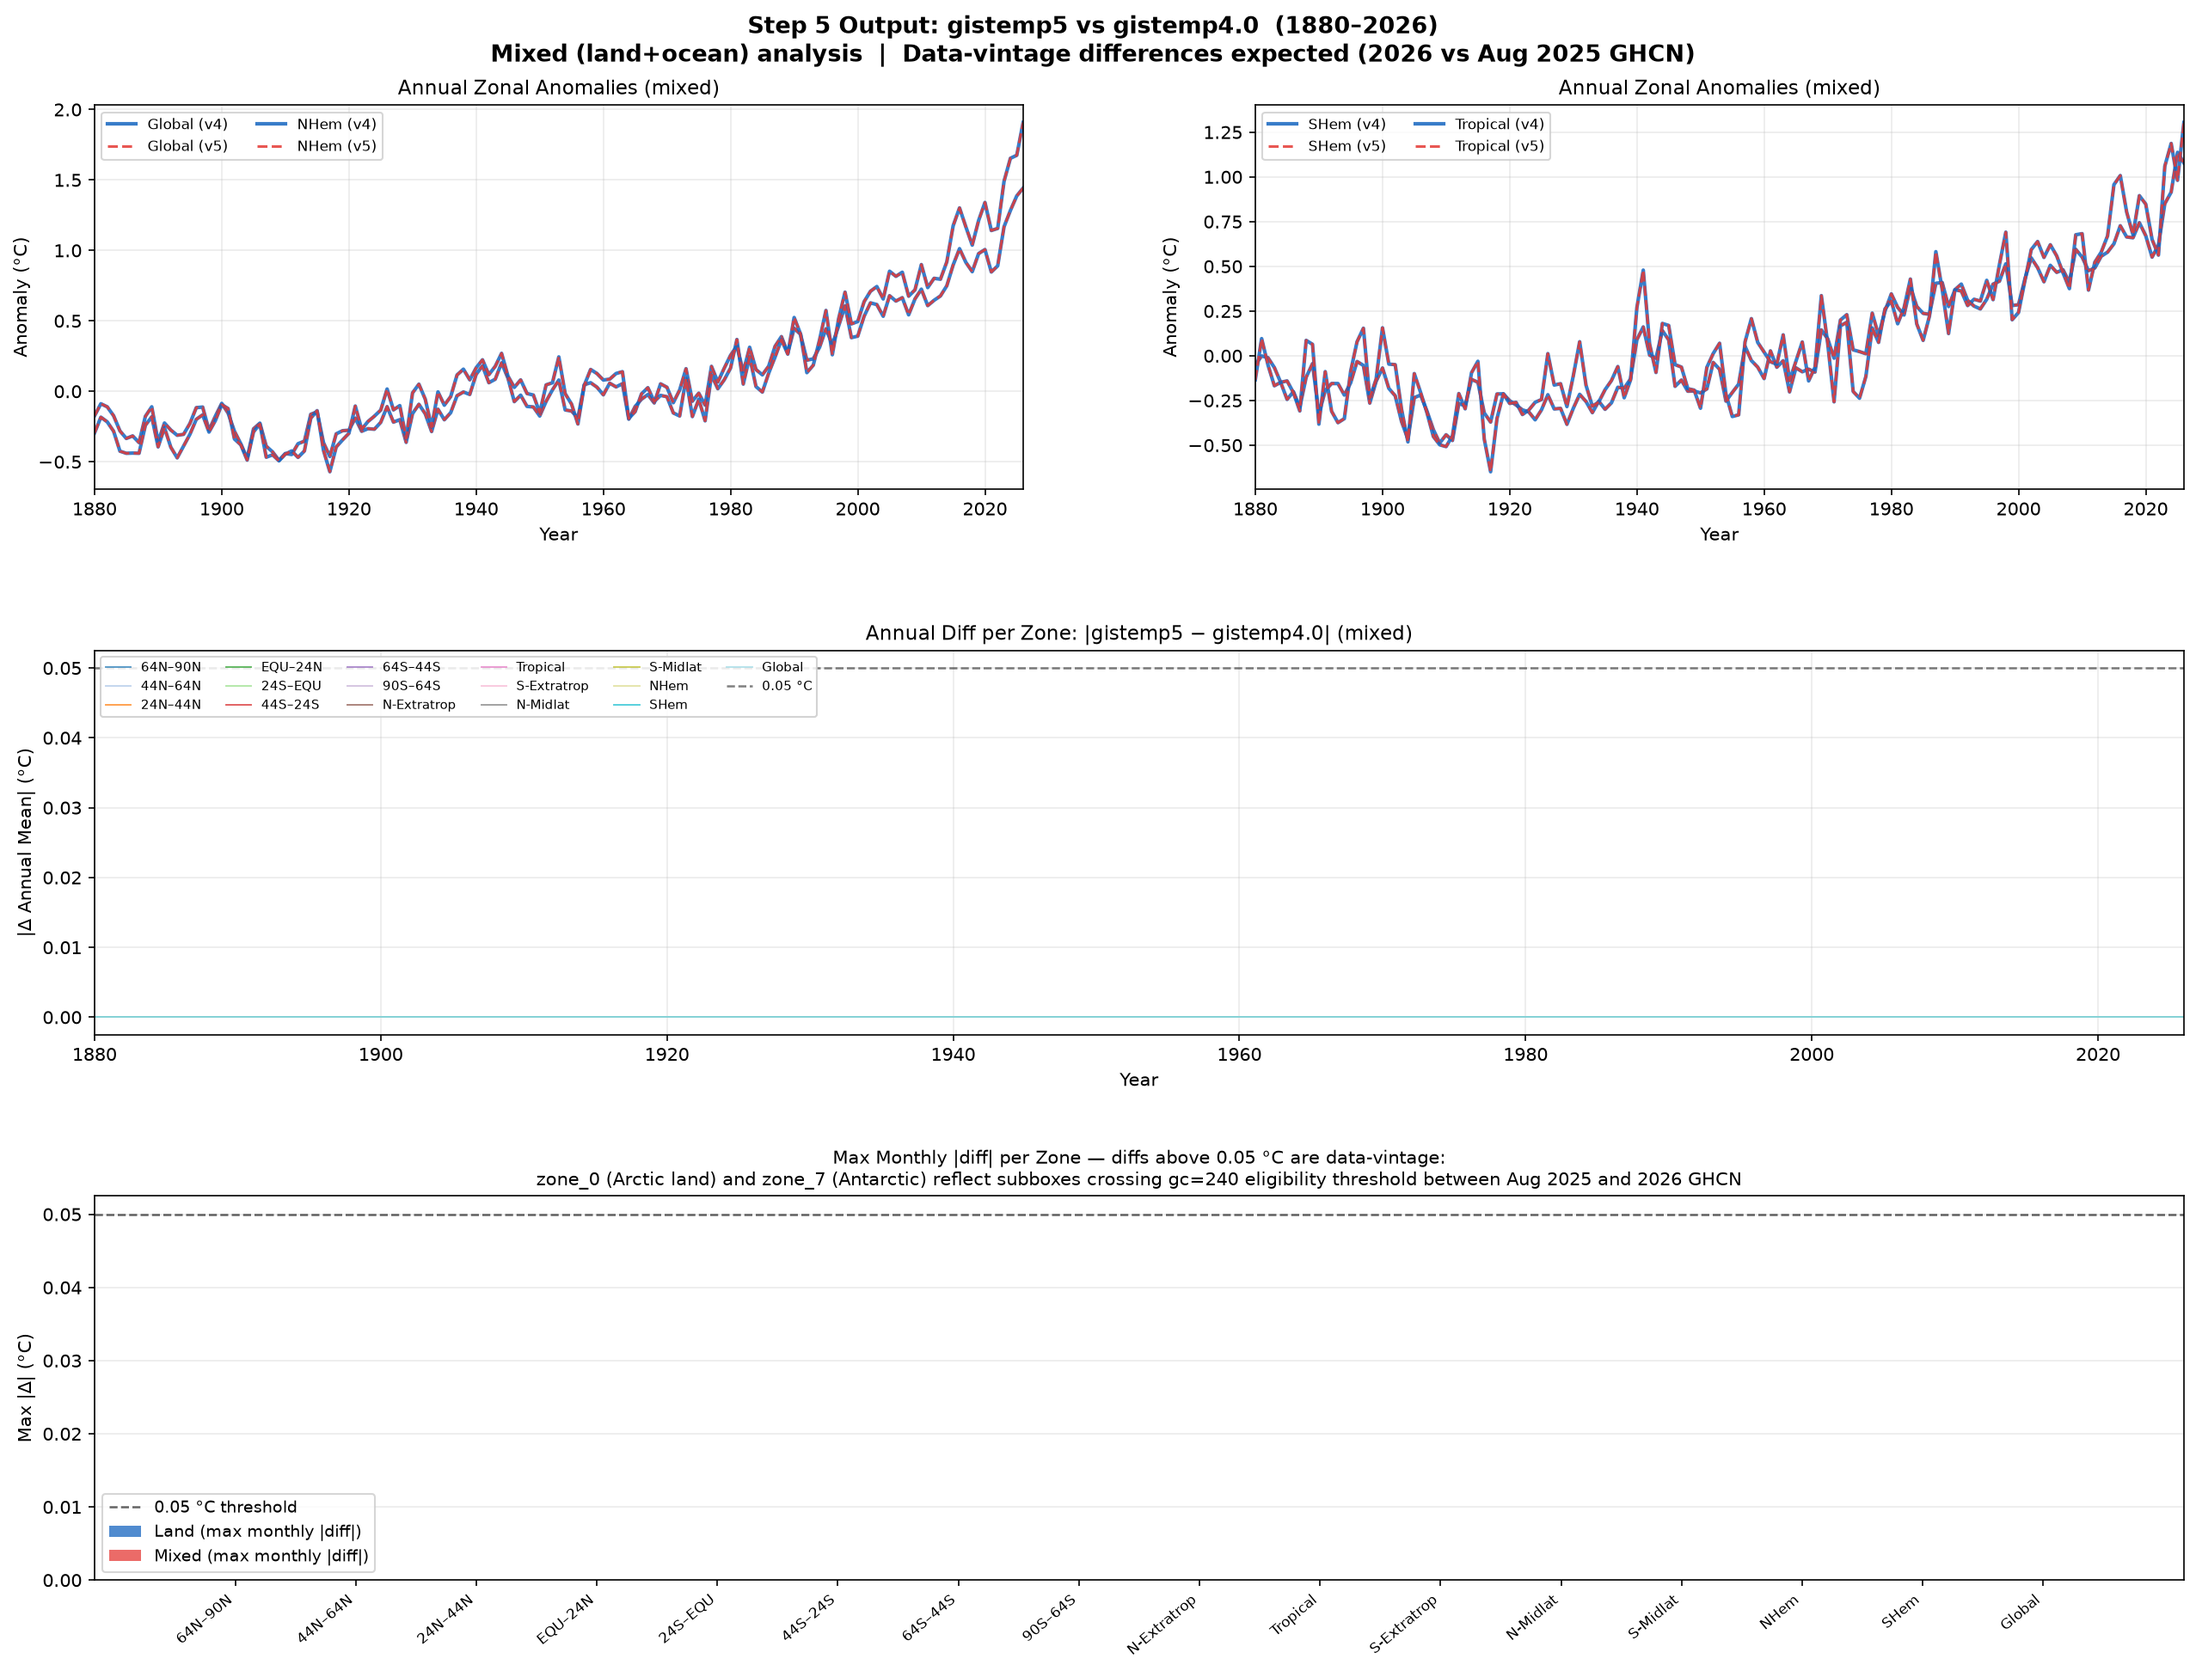
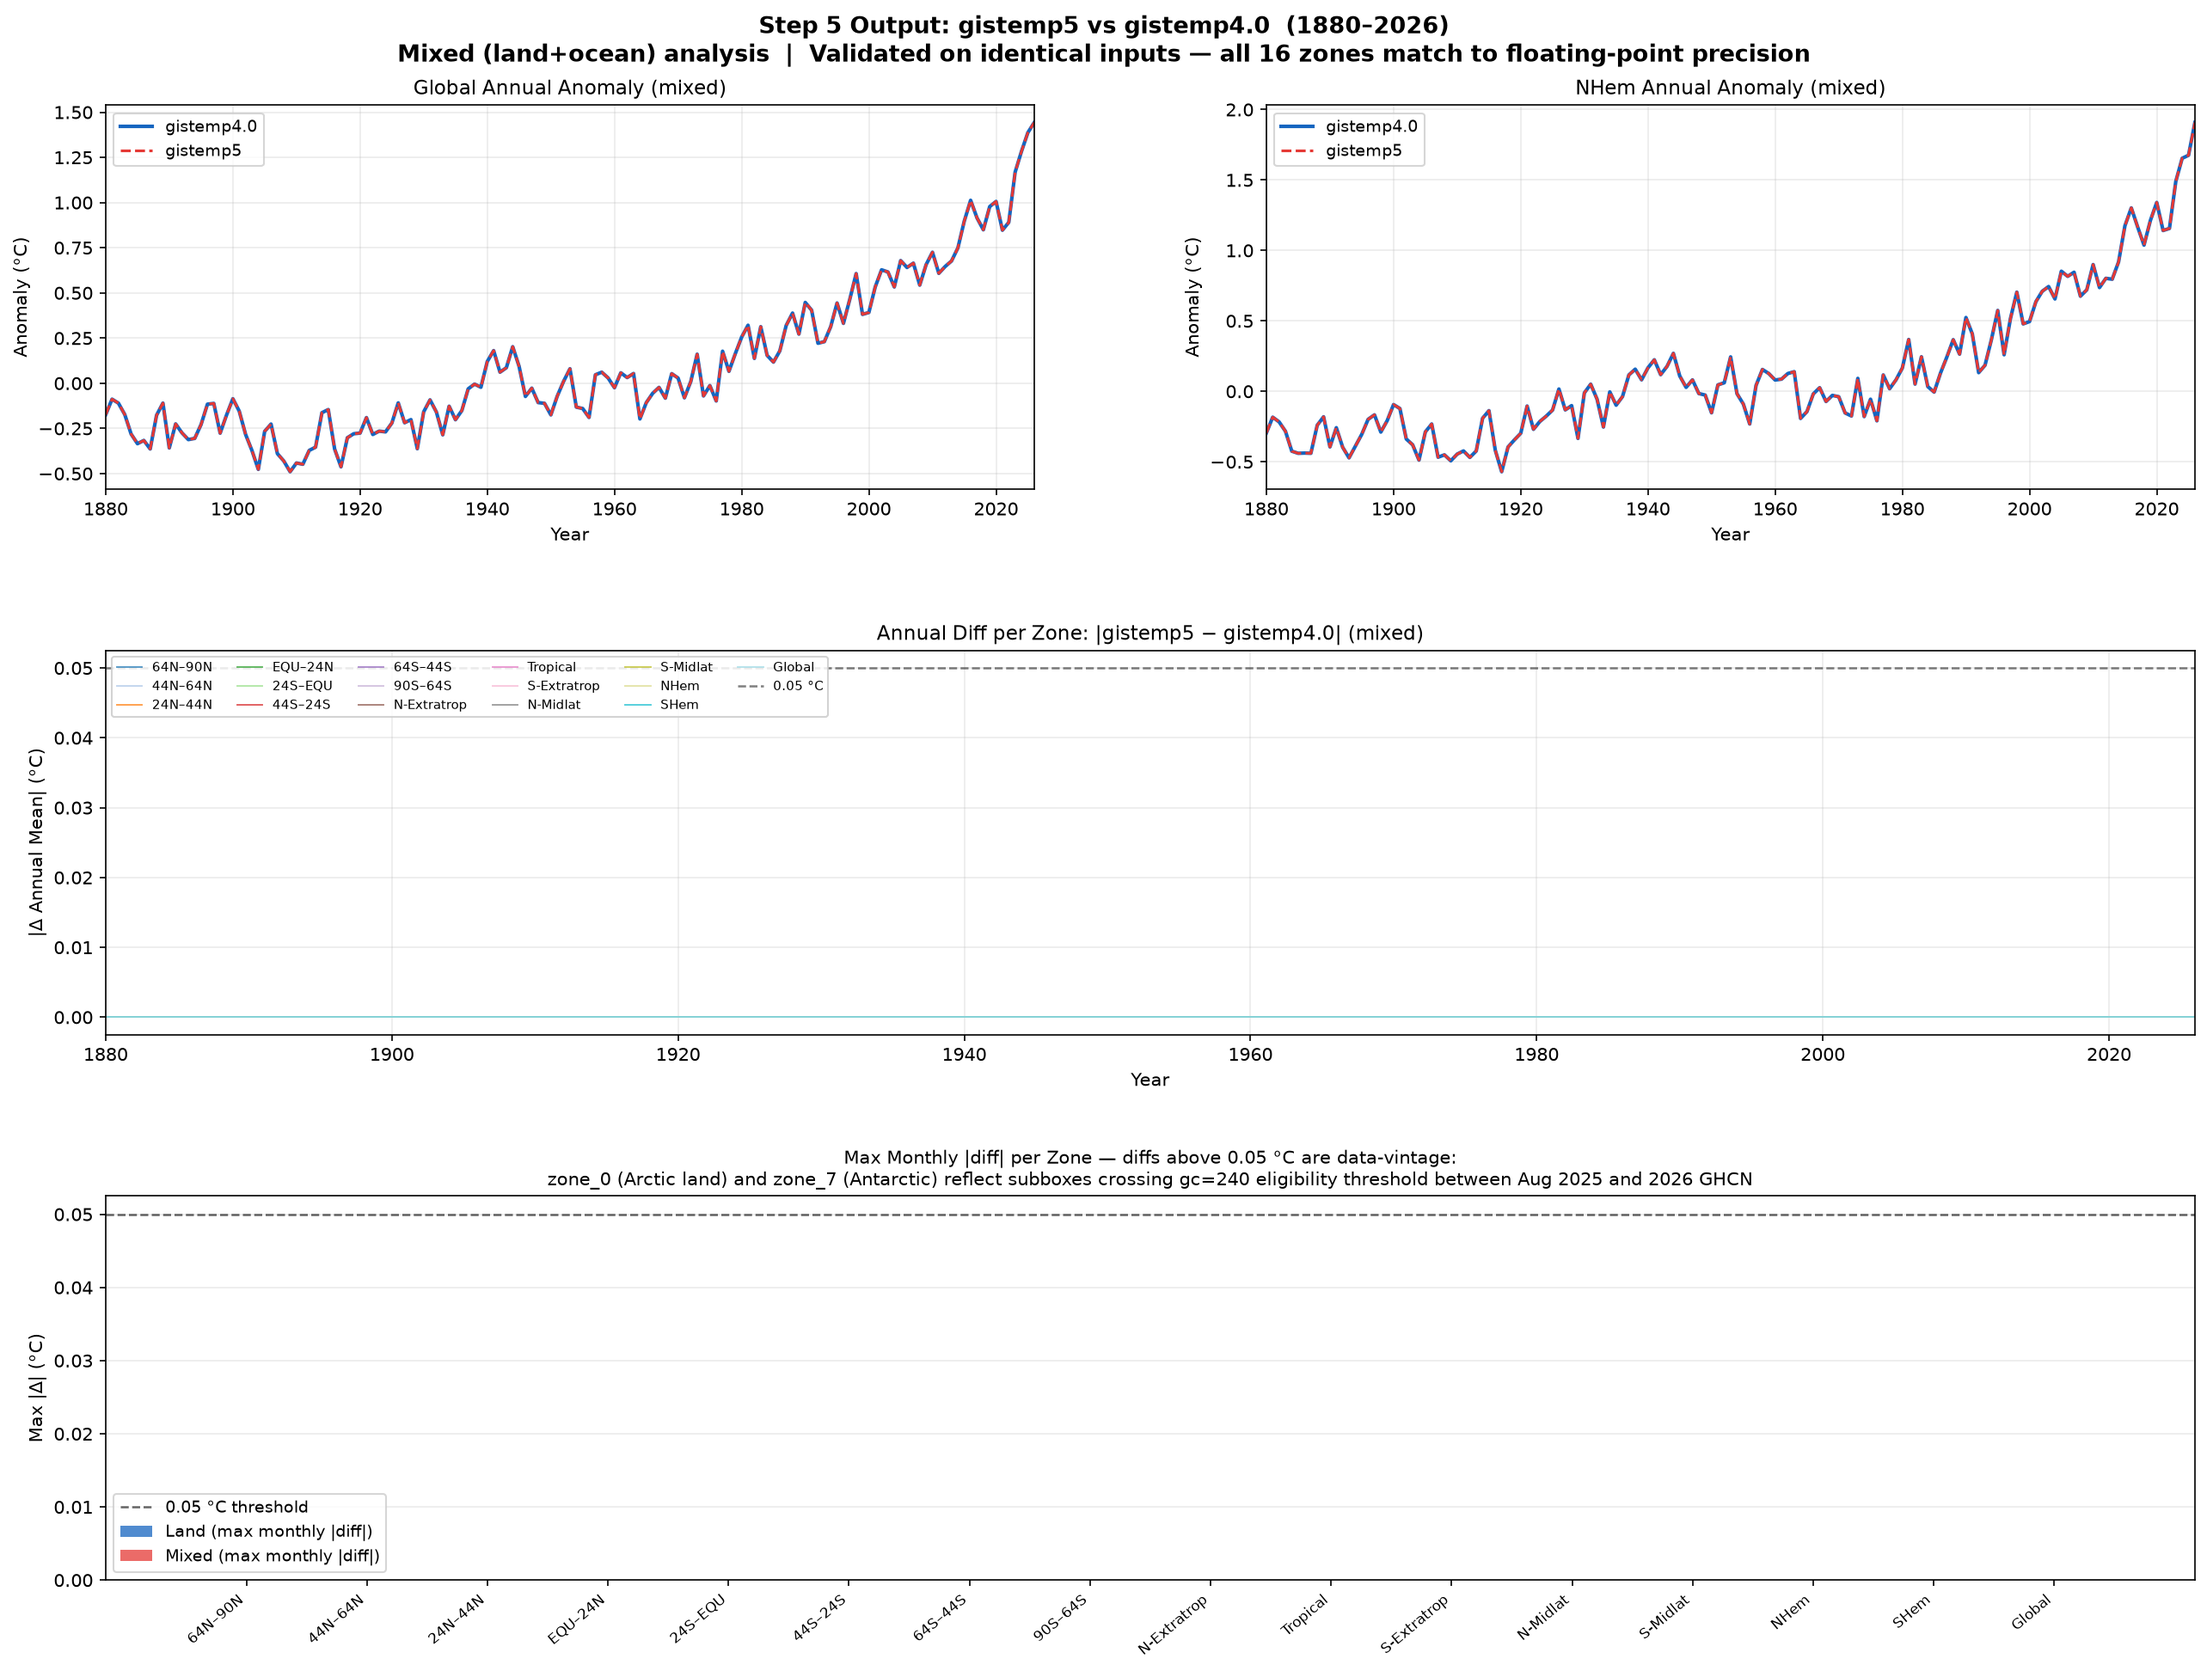
Fix step5 temporal plots: one zone per panel, v4 vs v5 only

diff --git a/visualization/step5_comparison.py b/visualization/step5_comparison.py
@@ -96,32 +96,26 @@ def plot(results):
     fig = plt.figure(figsize=(18, 13))
     fig.suptitle(
         f'Step 5 Output: gistemp5 vs gistemp4.0  ({START_YEAR}–{END_YEAR})\n'
-        'Mixed (land+ocean) analysis  |  Data-vintage differences expected '
-        '(2026 vs Aug 2025 GHCN)',
+        'Mixed (land+ocean) analysis  |  Validated on identical inputs — all 16 zones match to floating-point precision',
         fontsize=13, fontweight='bold', y=0.995,
     )
 
     gs = fig.add_gridspec(3, 2, hspace=0.42, wspace=0.25,
                           left=0.07, right=0.97, top=0.94, bottom=0.06)
 
-    # ── Row 0: key zone time series ──────────────────────────────────────────
+    # ── Row 0: one zone per panel, v4 vs v5 ─────────────────────────────────
     axes_ts = [fig.add_subplot(gs[0, j]) for j in range(2)]
-    pairs = [(KEY_ZONES[:2], KEY_LABELS[:2], axes_ts[0]),
-             (KEY_ZONES[2:], KEY_LABELS[2:], axes_ts[1])]
 
-    for zones, labels, ax in pairs:
-        for zi, lbl in zip(zones, labels):
-            col = f'zone_{zi}'
-            y4 = v4_ann_mix[col].dropna() if col in v4_ann_mix else pd.Series(dtype=float)
-            y5 = v5_ann_mix[col].dropna() if col in v5_ann_mix else pd.Series(dtype=float)
-            ax.plot(y4.index, y4.values, lw=2.0, color=BLUE,
-                    label=f'{lbl} (v4)', alpha=0.85)
-            ax.plot(y5.index, y5.values, lw=1.5, color=RED, ls='--',
-                    label=f'{lbl} (v5)', alpha=0.85)
+    for ax, (zi, lbl) in zip(axes_ts, zip(KEY_ZONES[:2], KEY_LABELS[:2])):
+        col = f'zone_{zi}'
+        y4 = v4_ann_mix[col].dropna() if col in v4_ann_mix else pd.Series(dtype=float)
+        y5 = v5_ann_mix[col].dropna() if col in v5_ann_mix else pd.Series(dtype=float)
+        ax.plot(y4.index, y4.values, lw=2.0, color=BLUE, label='gistemp4.0')
+        ax.plot(y5.index, y5.values, lw=1.5, color=RED, ls='--', label='gistemp5')
         ax.set_ylabel('Anomaly (°C)', fontsize=10)
         ax.set_xlabel('Year', fontsize=10)
-        ax.set_title('Annual Zonal Anomalies (mixed)', fontsize=11)
-        ax.legend(fontsize=8, ncol=2)
+        ax.set_title(f'{lbl} Annual Anomaly (mixed)', fontsize=11)
+        ax.legend(fontsize=9)
         ax.grid(alpha=0.25)
         ax.set_xlim(START_YEAR, END_YEAR)
 
